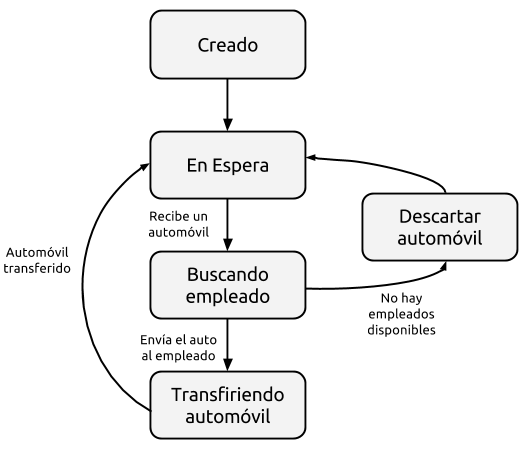
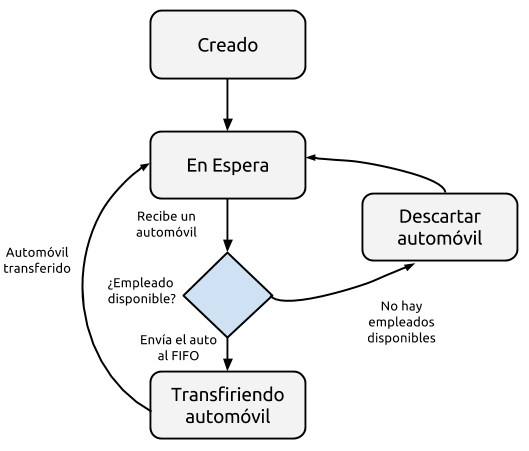
Update del informe.

Changed region(s): [[0.2117, 0.4656, 0.8469, 0.7761], [0.2722, 0.7761, 0.4234, 0.8071]]

diff --git a/informe/informe.tex b/informe/informe.tex
@@ -17,7 +17,67 @@
 \tableofcontents
 \newpage
 \section{Diseño}
+	\subsection{Proceso Principal}
 
+		Es el encargado de lanzar los procesos que componen la simulación, inicializar los recursos
+		compartidos como semáforos y memorias compartidas.
+
+		También se encarga de, cuando el usuario decide finalizar la simulación, enviar las señales
+		apropiadas para que dichos procesos cesen el uso de los recursos. Luego, espera a la finalización
+		de dichos procesos hijos, para finalizar la simulación.
+
+	\subsection{Generador de Autos}
+		
+		Este proceso es el encargado de crear los autos que llegan a la estación. Para
+		dicho propósito, genera autos en intervalos de tiempo especificado en el archivo de configuración. 
+		Cada auto está representado por un ID y una cantidad de dinero que va a gastar en la estación.
+
+		El Generador de Autos interactúa con el Jefe de Estación, y dicha interacción se puede
+		asemejar al problema \textbf{Producer - Consumer}, debido a que el Generador produce
+		los autos que el Jefe de Estación va a recibir. 
+
+		La comunicación entre el Generador de Autos y el jefe de Estación se realiza por medio de un
+		FIFO.
+
+
+	\subsection{Jefe de Estación}
+		Este proceso se encarga de recibir los autos nuevos que van llegando a la estación. 
+		En este caso, el Jefe de Estación es el \textbf{consumer} de información.
+
+		Una vez que logró extraer un automóvil del buffer exitosamente, debe asignarle 
+		un empleado al auto recibido, en caso de que exista algun empleado disponible 
+		en ese mismo instante, caso contrario, deberá redirigir el mismo hacia la salida.
+		
+		El jede de estación, lee un variable que se encuentra en memoria compartida, la cual
+		representa el número de empleados disponibles en ese momento. Para acceder a dicha variable,
+		deberá pedir acceso a un semáforo que restringe su uso de manera exclusiva.
+		En el caso de exista algún empleado libre (lo cual se deduce de que el valor de dicha variable
+		es mayor a cero), escribe el automóvil recibido por parte del generador en un FIFO.
+
+
+	\subsection{Empleado}
+	
+		Este proceso representa el accionar de un empleado cuando atiende un auto. Los empleados piden acceso
+		de manera exclusiva a FIFO en el que el jefe de estación escribirá los autos, de manera que no se
+		atienda a un auto más de una vez por diferentes empleados. El acceso al FIFO por parte de los empleados,
+		se encuentra controlado por un semáforo. 
+
+		Una vez que un empleado recibe un auto, modifica la variable que lleva la cuenta de los empleados libres, 
+		disminuyendo en uno su valor. Una vez que el empleado tiene el automóvil en su poder, se dirige hacia los
+		surtidores, esperando en un semáforo que representa la cantidad de surtidores disponibles. 
+
+		El tiempo de atención del automóvil se calcula a partir del dinero que lleva el mismo. Dicho tiempo no es
+		proporcional al dinero que el automóvil dispone. Luego de la espera, libera el surtidor utilizado y se dirige
+		a la caja para depositar el monto que el mismo llevaba. La caja, es implementada como una variable del tipo entero
+		en memoria compartida, que debe accederse de a un proceso a la vez por medio de un semáforo.
+
+		Cuando se finaliza la atención del automóvil, el empleado incrementa la variable que representa la cantidad
+		de empleados libres, y vuelve a pedir acceso al FIFO en la espera de un nuevo cliente
+	
+	\subsection{Administrador}
+	
+	El proceso administrador tiene la facultad de consultar el valor guardado en la caja. Puede hacerlo en cualquier momento, y su consulta sobre la caja esta controlada de la misma forma que el empleado. La diferencia con el empleado es que el Administrador no espera a un auto, sino que puede consultar en cualquier momento. En nuestra implementación, 
+	el administrador consulta la caja de manera periódica, siendo configurable el período de espera entre cada consulta.
 \section{Hipótesis}
 
 \begin{itemize}
@@ -46,55 +106,22 @@
 	Ejemplo:
 
 	\texttt{./procesoPrincipal -e 5 -s 7}
+
+	\item Finalizar la simulación: El proceso principal se quedará esperando por el 
+	ingreso de un caracter cualquiera, como orden para finalizar todos los procesos
+	que componen la simulación.
+
 \end{itemize}
 
-\section{Procesos del proyecto}
 
-	\subsection{Generador de Autos}
-		
-		Este proceso es el encargado de crear los autos que llegan a la estación. Para
-		dicho propósito, genera un auto en intervalos de tiempo elegidos de forma aleatoria. 
-		Cada auto está representado por un ID y una cantidad de dinero que va a gastar en la estación.
-
-		El Generador de Autos interactúa con el Jefe de Estación, y dicha interacción se puede
-		asemejar al problema \textbf{Producer - Consumer}, debido a que el Generador produce
-		los autos que el Jefe de Estación va a recibir. 
-
-		Al analizar este problema, debemos tener en cuenta que el \textbf{producer} no debería
-		agregar información al medio que comparte con el consumer, si el mismo se encuentra lleno.
-		En esta situación optamos por enviar a dormir al proceso generador, por un tiempo
-		aleatorio, y volver a intentar escribir en el buffer cuando se despierte.
-
-	\subsection{Jefe de Estación}
-		Este proceso se encarga de recibir los autos nuevos que van llegando a la estación. 
-		En este caso, el Jefe de Estación es el \textbf{consumer} de información, y debe
-		cerciorarse de no intentar extraer información del buffer si el mismo esta vacío.
-
-		Una vez que logró extraer un automóvil del buffer exitosamente, debe asignarle 
-		un empleado al auto recibido, en caso de que exista algun empleado disponible 
-		en ese mismo instante, caso contrario,deberá redirigir el mismo hacia la salida.
-		
-		Para esto, el proceso explora un array de valores lógicos (booleanos), que representan la disponibilidad de los empleados. La posición del booleano en el array es tambien el ID de empleado (no confundir con el PID del proceso empleado). Una vez hallado al empleado, se marca el valor lógico correspondiente como ``Ocupado''. Luego se graban los datos del auto en un pipe compartido con le proceso Empleado.
-
-	\subsection{Empleado}
-	
-	Este proceso representa el accionar de un empleado cuando atiende un auto. El proceso espera un auto por un pipe, cuando lo lee, busca un surtidor libre, lo cual se representa por medio de un semáforo que se encarga de llevar la cuenta de cuantos surtidores disponibles hay. Una vez tomado el surtidor, procede a atender el auto. En nuestra simulación, atender un auto se traduce en introducir una demora (sleep) antes de grabar el monto cobrado en la caja. Dicha demora se determinará por medio de una cuenta realizada con la cantidad de dinero que el auto tiene (el cual es determinado de manera aleatoria al momento de su creación). 
-
-	Vale aclarar que el sleep mencionado recién es utilizado simplemente para simular la utilización del surtidor, cuya implementación escapa del ámbito de este proyecto, y no es utilizado como mecanismo de coordinación entre ningún par de procesos.
-	
-	Una vez que termina el tiempo de atención del auto, el empleado busca el control de la caja para grabar lo recaudado. Esta operación es un problema de concurrencia entre todos los procesos empleados, y debe ser coordinada mediante un semáforo binario (es decir, el semáforo está tomado o no).
-	
-	\subsection{Administrador}
-	
-	El proceso administrador tiene la facultad de consultar el valor guardado en la caja. Puede hacerlo en cualquier momento, y su consulta sobre la caja esta controlada de la misma forma que el empleado. La diferencia con el empleado es que el Administrador no espera a un auto, sino que puede consultar en cualquier momento.
-	
 	\section{Diagrama esquemático de interacciones}
 	
 	Ver figura \ref{diagrama}
 
 \begin{figure}
 \label{diagrama}
-\includegraphics[width=1.0\textwidth]{esquema.png}
+\includegraphics[angle=90, scale = 0.34]{esquema.png}
+\centering
 \caption{Diagrama esquemático de interacciones}
 \end{figure}
 
@@ -110,34 +137,36 @@
 	\item Jefe de Estación - Empleado:
 	\begin{itemize}
 		\item Fifo \texttt{files/jde.empleado} para envío de los autos
-		\item Memoria compartida (arreglo) para detectar empleado disponible
-		% \item Mecanismo para tener bloqueado al empleado cuando esta idle
+		\item Memoria compartida con la cantidad de empleados disponibles
+		\item Semáforo para controlar acceso a la memoria compartida.
+		\item Semáforo para controlar acceso al Fifo, por parte del empleado (lector).
 	\end{itemize}
-	
-\item Empleado - Empleado (surtidores):
+
+	\item Empleado (surtidores):
 	\begin{itemize}
 		\item Semáforo \texttt{files/semaforo.surtidores} que representa la 
 		cantidad de surtidores libres, y controla el acceso a los mismos.
 	\end{itemize}
 
-	\item Empleado - Empleado (caja):
+	\item Empleado (caja):
 	\begin{itemize}
 		\item Memoria compartida que representa la caja
-		\item Semáforo \texttt{} para acceder a la caja
+		\item Semáforo que controla el acceso a la caja
 	\end{itemize}
 
-	\item Empleado - Administrador:
+	\item Administrador (caja):
 	\begin{itemize}
 		\item Memoria compartida que representa la caja
-		\item Semáforo \texttt{} para acceder a la caja
+		\item Semáforo que controla el acceso a la caja
 	\end{itemize}
 
 	\end{itemize}
-
+	\newpage
 	\section{Diagrama de estados del proceso Jefe De Estación}
 
-	\begin{figure}
-	\includegraphics[width=1.0\textwidth]{FSM_JDE.png}[h]
+	\begin{figure}[h]
+	\includegraphics[scale=0.75]{FSM_JDE.png}
+	\centering
 	% https://docs.google.com/drawings/d/1fSqCpKnnYxksGUfpufRSJbsfxkYRRuSEGUDkyJf5Sf0/edit?usp=sharing
 	\caption{FSM del Jefe de Estación}
 	\end{figure}
